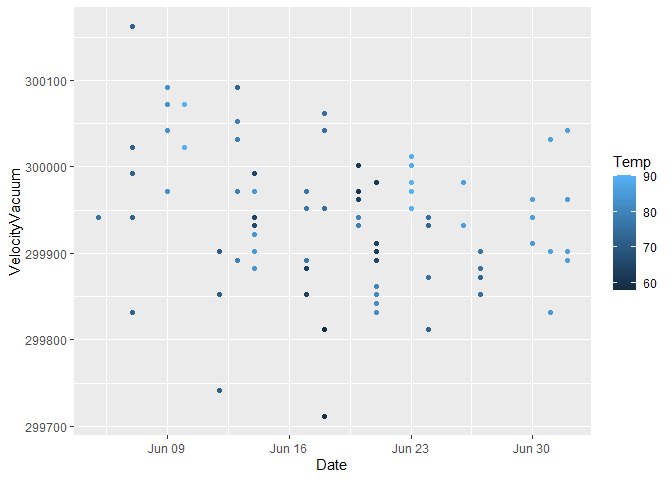
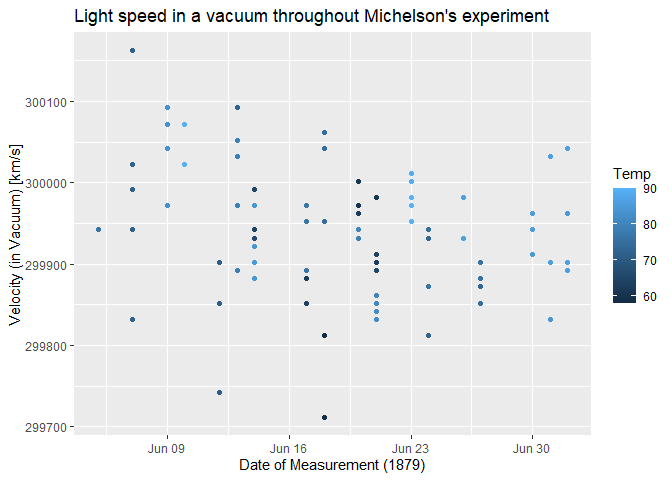
Correct c02 fully

diff --git a/challenges/c02-michelson-assignment.md b/challenges/c02-michelson-assignment.md
@@ -170,9 +170,9 @@ df_michelson %>%
 
 **Observations**: - While distinctness and n naturally match Michelson’s
 data, the mean velocity that I compute is slightly different. This may
-be attributed to a difference in technology; whether it be the measuring
-equipment used to capture the velocities, or the computers used to
-calculate the mean velocities.
+be attributed to human calculation vs. computer computation, or it could
+be that Michelson was rounding purposefully or to use 5 significant
+figures.
 
 The `Velocity` values in the dataset are the speed of light *in air*;
 Michelson introduced a couple of adjustments to estimate the speed of
@@ -367,7 +367,12 @@ df_q2 %>%
 ``` r
 df_q2 %>%
   ggplot() +
-  geom_point(mapping = aes(x = Date, y = VelocityVacuum, color = Temp))
+  geom_point(mapping = aes(x = Date, y = VelocityVacuum, color = Temp))  + 
+  labs(
+    x = "Date of Measurement (1879)",
+    y = "Velocity (in Vacuum) [km/s]",
+    title = "Light speed in a vacuum throughout Michelson's experiment"
+  )
 ```
 
 ![](c02-michelson-assignment_files/figure-gfm/unnamed-chunk-2-2.png)<!-- -->
@@ -375,7 +380,8 @@ df_q2 %>%
 ``` r
 df_q2 %>%
   ggplot() +
-  geom_point(mapping = aes(x = Date, y = VelocityVacuum, color = Distinctness))
+  geom_boxplot(mapping = aes(x = Distinctness, y = VelocityVacuum)) +
+  geom_point(mapping = aes(x = Distinctness, y = LIGHTSPEED_VACUUM), color = "red")
 ```
 
 ![](c02-michelson-assignment_files/figure-gfm/unnamed-chunk-2-3.png)<!-- -->
@@ -383,7 +389,8 @@ df_q2 %>%
 ``` r
 df_q2 %>%  
 ggplot() +
-  geom_density(mapping = aes(x = VelocityVacuum, color = Distinctness))
+  geom_point(mapping = aes(x = Temp, y = VelocityVacuum)) +
+  geom_line(mapping = aes(x = Temp, y = LIGHTSPEED_VACUUM), color = "red")
 ```
 
 ![](c02-michelson-assignment_files/figure-gfm/unnamed-chunk-2-4.png)<!-- -->
@@ -392,31 +399,29 @@ ggplot() +
 
 - Graph 1
   - Significantly more measurements with distinctness 2 or 3 were
-    measured than distinctness 1. If distinctness has an effect on the
-    measured velocity, it could explain why the error was so great.
+    measured than distinctness 1.
+  - The vacuum velocity for distinctness 1 measurements does not exceed
+    300,000 km/s as the clearer distinctness values do.
 - Graph 2
   - There was a different number of measurements taken on each day. I’m
     not a physicist, but I would want to collect the same number of
     samples every time that I repeat my experiment to control for
-    external conditions influencing my data. This scatterplot also
-    seemingly indicates little effect of temperature on the “vacuum”
-    velocity, but lower temperatures seem to have slightly lower speeds
-    on average.
+    external conditions influencing my data.
+  - The velocity varies widely no matter the date; this suggests that
+    the date of measurement does not influence the speed of light in a
+    noticeable way if at all. This aligns with what I would expect.
 - Graph 3
-  - Again we can see the scarcity of distinctness 1 results, but their
-    prevalence in one segment of time may indicate a problem with the
-    measuring apparatus; why aren’t there measurements of distinctness 1
-    outside that timeframe? It seems that distinctness 1 averages the
-    lowest temperature, with distinctness 3 second lowest, then
-    distinctness 2. Since the speed of light in actuality is 151 km/s
-    slower, I wonder if this lack of category biased the data.
+  - The interquartile range is concentrated higher than the actual speed
+    of light.
+  - The speed of light is lower than even the minimum non-outlier for
+    every distinctness.
+  - This suggests that distinctness did not affect the speed of light in
+    a noticeable way.
 - Graph 4
-  - Since the density graph normalizes based on the number of samples, I
-    thought it might be a good idea for the distinctness categories.
-    Both distinctness 2 and 3 have a slight right skew to their curves,
-    whereas distinctness 1 has a slight left skew. Looking at the other
-    visualizations, this would be expected. Unfortunately this seemingly
-    does not illustrate new information about the data.
+  - Most velocity measurements, seemingly regardless of temperature,
+    were measured to be above the real speed of light. This suggests
+    that temperature did not influence the velocity measurement
+    noticeably.
 
 ## Bibliography
 
